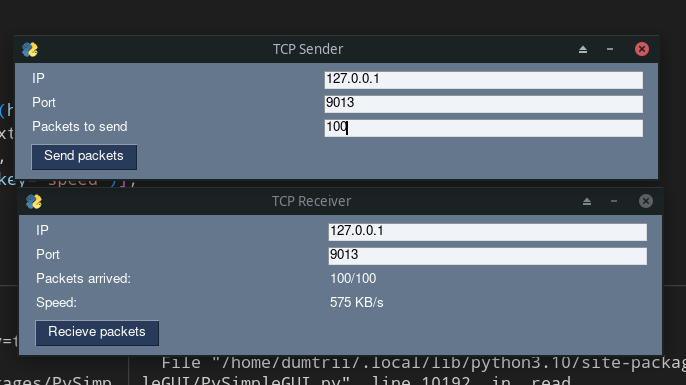
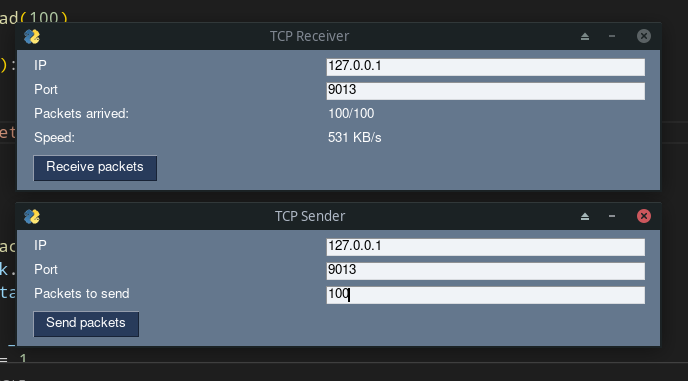
lab12 fix tcp

diff --git a/12/speedtest/tcp/receiver.py b/12/speedtest/tcp/receiver.py
@@ -20,7 +20,7 @@ layout = [
     [sg.Text('Port', size=(40, 1)), sg.InputText(str(port))],
     [sg.Text('Packets arrived:', size=(40, 1)), sg.Text(key='messages')],
     [sg.Text('Speed:', size=(40, 1)), sg.Text(key='speed')],
-    [sg.Button('Recieve packets')],
+    [sg.Button('Receive packets')],
 ]
 
 window = sg.Window('TCP Receiver', layout)
@@ -36,7 +36,7 @@ while True:
     if event in (None, 'Exit'):
         break
 
-    if event == 'Recieve packets':
+    if event == 'Receive packets':
         counter = 0
         first_time = None
 
